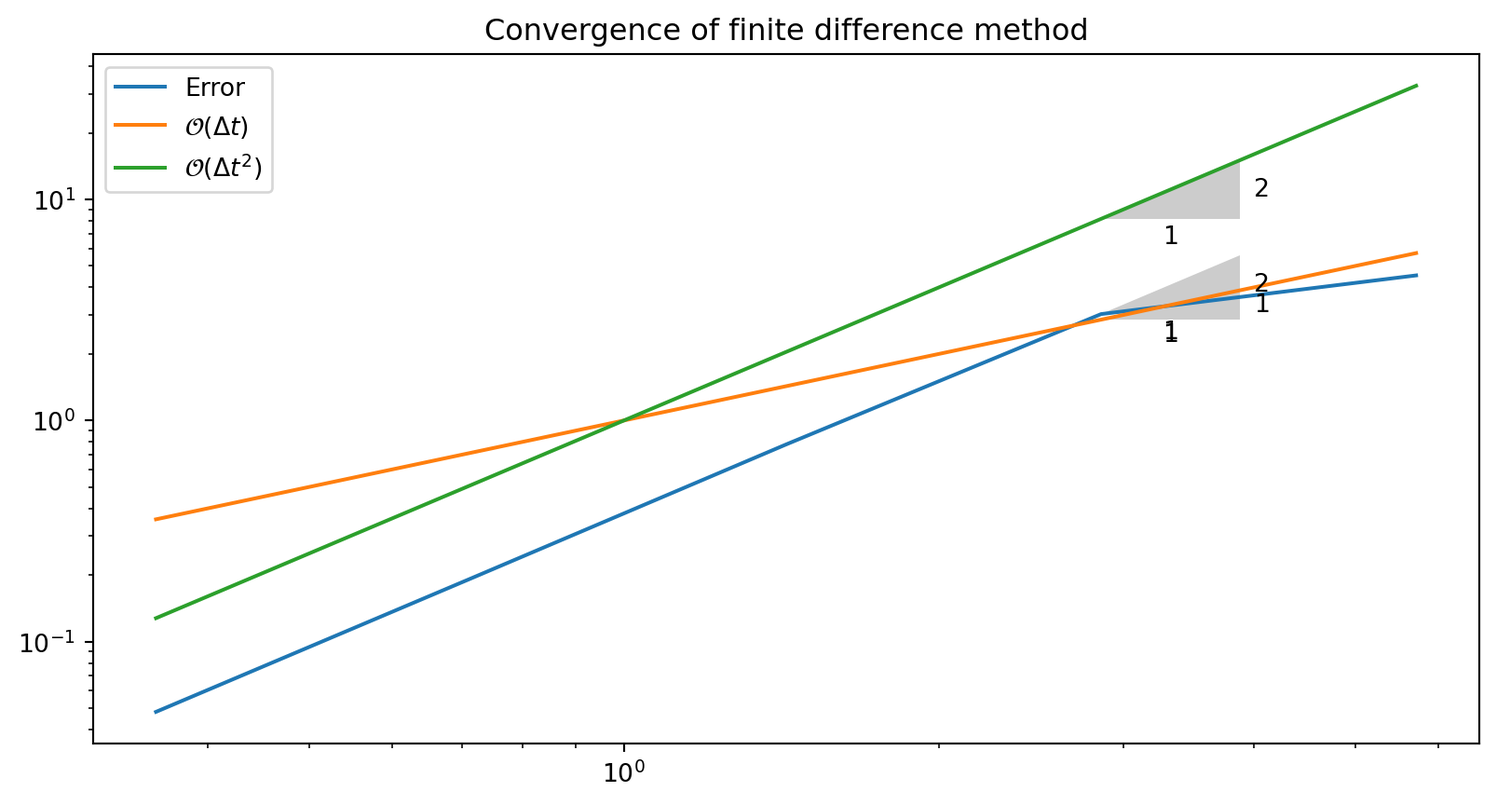
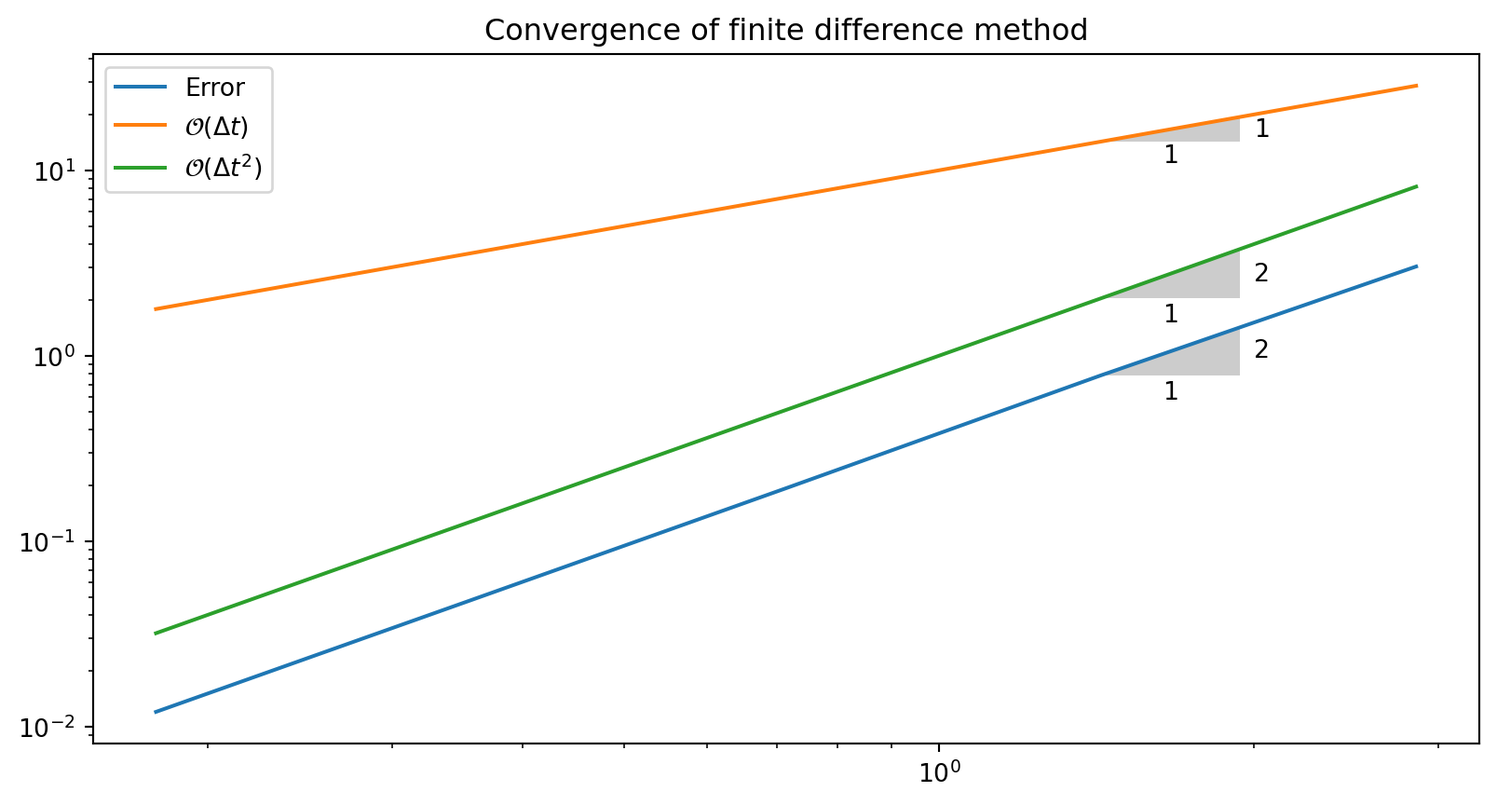
Update documentation

diff --git a/vibration.html b/vibration.html
@@ -460,13 +460,13 @@ u^{n+1} = 2u^n - u^{n-1} - \Delta t^2\omega^2 u^n
 \]</span></p>
 <p>Nick names for this scheme: Störmer’s method or <a href="&quot;http://en.wikipedia.org/wiki/Velocity_Verlet&quot;">Verlet integration</a>.</p>
 <div class="fragment">
-<p>The scheme is a <strong>recurrence relation</strong>. That is, <span class="math inline">\(u^{n+1}\)</span> is an <strong>explicit</strong> function of one or more of the solutions at previous time steps <span class="math inline">\(u^n, u^{n-1}, \ldots\)</span>. We will later see <strong>implicit</strong> schemes where the solution for <span class="math inline">\(u^{n+1}\)</span> depends also on <span class="math inline">\(u^{n+2}, u^{n+3}\)</span> etc.</p>
+<p>The scheme is a <strong>recurrence relation</strong>. That is, <span class="math inline">\(u^{n+1}\)</span> is an <strong>explicit</strong> function of one or more of the solutions at previous time steps <span class="math inline">\(u^n, u^{n-1}, \ldots\)</span>. We will later see <strong>implicit</strong> schemes where the equation for <span class="math inline">\(u^{n+1}\)</span> depends also on <span class="math inline">\(u^{n+2}, u^{n+3}\)</span> etc.</p>
 </div>
 </section>
 <section id="computing-the-first-step---option-1" class="slide level2 smaller">
 <h2>Computing the first step - option 1</h2>
 <ul>
-<li>The two initial conditions require that we fix <span class="math inline">\(u^0\)</span> and <span class="math inline">\(u^1\)</span>. How?</li>
+<li>The two initial conditions require that we fix both <span class="math inline">\(u^0\)</span> and <span class="math inline">\(u^1\)</span>. How to fix <span class="math inline">\(u^1\)</span>?</li>
 </ul>
 <div class="fragment">
 <ul>
@@ -537,7 +537,7 @@ u^1 = u^0 - \frac{1}{2} \Delta t^2 \omega^2 u^0
 </ul>
 <div class="fragment">
 <p>More precisely expressed in Python:</p>
-<div id="7d715557" class="cell" data-execution_count="2">
+<div id="e3fbc46c" class="cell" data-execution_count="2">
 <div class="sourceCode cell-code" id="cb1"><pre class="sourceCode numberSource python number-lines code-with-copy"><code class="sourceCode python"><span id="cb1-1"><a></a>T <span class="op">=</span> <span class="dv">1</span></span>
 <span id="cb1-2"><a></a>Nt <span class="op">=</span> <span class="dv">10</span></span>
 <span id="cb1-3"><a></a>I <span class="op">=</span> <span class="dv">1</span></span>
@@ -577,7 +577,7 @@ u^{\prime}(t_n) \approx \frac{u^{n+1}-u^{n-1}}{2\Delta t}
 </div>
 <div class="fragment">
 <p>With vectorization:</p>
-<div id="5db5d257" class="cell" data-execution_count="3">
+<div id="381f5493" class="cell" data-execution_count="3">
 <div class="sourceCode cell-code" id="cb2"><pre class="sourceCode numberSource python number-lines code-with-copy"><code class="sourceCode python"><span id="cb2-1"><a></a>du <span class="op">=</span> np.zeros(Nt<span class="op">+</span><span class="dv">1</span>)</span>
 <span id="cb2-2"><a></a>du[<span class="dv">1</span>:<span class="op">-</span><span class="dv">1</span>] <span class="op">=</span> (u[<span class="dv">2</span>:] <span class="op">-</span> u[:<span class="op">-</span><span class="dv">2</span>]) <span class="op">/</span> (<span class="dv">2</span><span class="op">*</span>dt)  <span class="co"># second order accurate</span></span>
 <span id="cb2-3"><a></a>du[<span class="dv">0</span>] <span class="op">=</span> <span class="dv">0</span>                             <span class="co"># exact from initial condition</span></span>
@@ -587,35 +587,34 @@ u^{\prime}(t_n) \approx \frac{u^{n+1}-u^{n-1}}{2\Delta t}
 </section>
 <section id="implementation" class="slide level2 smaller">
 <h2>Implementation</h2>
-<div id="f6d6349c" class="cell" data-execution_count="4">
+<div id="5f7084ca" class="cell" data-execution_count="4">
 <div class="sourceCode cell-code" id="cb3"><pre class="sourceCode numberSource python number-lines code-with-copy"><code class="sourceCode python"><span id="cb3-1"><a></a><span class="kw">def</span> solver(I, w, dt, T):</span>
 <span id="cb3-2"><a></a>    <span class="co">"""</span></span>
 <span id="cb3-3"><a></a><span class="co">    Solve u'' + w**2*u = 0 for t in (0,T], u(0)=I and u'(0)=0,</span></span>
 <span id="cb3-4"><a></a><span class="co">    by a central finite difference method with time step dt.</span></span>
 <span id="cb3-5"><a></a><span class="co">    """</span></span>
-<span id="cb3-6"><a></a>    dt <span class="op">=</span> <span class="bu">float</span>(dt)</span>
-<span id="cb3-7"><a></a>    Nt <span class="op">=</span> <span class="bu">int</span>(<span class="bu">round</span>(T<span class="op">/</span>dt))</span>
-<span id="cb3-8"><a></a>    u <span class="op">=</span> np.zeros(Nt<span class="op">+</span><span class="dv">1</span>)</span>
-<span id="cb3-9"><a></a>    t <span class="op">=</span> np.linspace(<span class="dv">0</span>, Nt<span class="op">*</span>dt, Nt<span class="op">+</span><span class="dv">1</span>)</span>
-<span id="cb3-10"><a></a></span>
-<span id="cb3-11"><a></a>    u[<span class="dv">0</span>] <span class="op">=</span> I</span>
-<span id="cb3-12"><a></a>    u[<span class="dv">1</span>] <span class="op">=</span> u[<span class="dv">0</span>] <span class="op">-</span> <span class="fl">0.5</span><span class="op">*</span>dt<span class="op">**</span><span class="dv">2</span><span class="op">*</span>w<span class="op">**</span><span class="dv">2</span><span class="op">*</span>u[<span class="dv">0</span>]</span>
-<span id="cb3-13"><a></a>    <span class="cf">for</span> n <span class="kw">in</span> <span class="bu">range</span>(<span class="dv">1</span>, Nt):</span>
-<span id="cb3-14"><a></a>        u[n<span class="op">+</span><span class="dv">1</span>] <span class="op">=</span> <span class="dv">2</span><span class="op">*</span>u[n] <span class="op">-</span> u[n<span class="op">-</span><span class="dv">1</span>] <span class="op">-</span> dt<span class="op">**</span><span class="dv">2</span><span class="op">*</span>w<span class="op">**</span><span class="dv">2</span><span class="op">*</span>u[n]</span>
-<span id="cb3-15"><a></a>    <span class="cf">return</span> u, t</span>
-<span id="cb3-16"><a></a> </span>
-<span id="cb3-17"><a></a><span class="kw">def</span> u_exact(t, I, w):</span>
-<span id="cb3-18"><a></a>    <span class="cf">return</span> I<span class="op">*</span>np.cos(w<span class="op">*</span>t)</span></code><button title="Copy to Clipboard" class="code-copy-button"><i class="bi"></i></button></pre></div>
+<span id="cb3-6"><a></a>    Nt <span class="op">=</span> <span class="bu">int</span>(<span class="bu">round</span>(T<span class="op">/</span>dt))</span>
+<span id="cb3-7"><a></a>    u <span class="op">=</span> np.zeros(Nt<span class="op">+</span><span class="dv">1</span>)</span>
+<span id="cb3-8"><a></a>    t <span class="op">=</span> np.linspace(<span class="dv">0</span>, Nt<span class="op">*</span>dt, Nt<span class="op">+</span><span class="dv">1</span>)</span>
+<span id="cb3-9"><a></a></span>
+<span id="cb3-10"><a></a>    u[<span class="dv">0</span>] <span class="op">=</span> I</span>
+<span id="cb3-11"><a></a>    u[<span class="dv">1</span>] <span class="op">=</span> u[<span class="dv">0</span>] <span class="op">-</span> <span class="fl">0.5</span><span class="op">*</span>dt<span class="op">**</span><span class="dv">2</span><span class="op">*</span>w<span class="op">**</span><span class="dv">2</span><span class="op">*</span>u[<span class="dv">0</span>]</span>
+<span id="cb3-12"><a></a>    <span class="cf">for</span> n <span class="kw">in</span> <span class="bu">range</span>(<span class="dv">1</span>, Nt):</span>
+<span id="cb3-13"><a></a>        u[n<span class="op">+</span><span class="dv">1</span>] <span class="op">=</span> <span class="dv">2</span><span class="op">*</span>u[n] <span class="op">-</span> u[n<span class="op">-</span><span class="dv">1</span>] <span class="op">-</span> dt<span class="op">**</span><span class="dv">2</span><span class="op">*</span>w<span class="op">**</span><span class="dv">2</span><span class="op">*</span>u[n]</span>
+<span id="cb3-14"><a></a>    <span class="cf">return</span> u, t</span>
+<span id="cb3-15"><a></a> </span>
+<span id="cb3-16"><a></a><span class="kw">def</span> u_exact(t, I, w):</span>
+<span id="cb3-17"><a></a>    <span class="cf">return</span> I<span class="op">*</span>np.cos(w<span class="op">*</span>t)</span></code><button title="Copy to Clipboard" class="code-copy-button"><i class="bi"></i></button></pre></div>
 </div>
 </section>
 <section id="visualization" class="slide level2 smaller">
 <h2>Visualization</h2>
-<div id="9a718988" class="cell" data-execution_count="5">
+<div id="a1373f6f" class="cell" data-execution_count="5">
 <div class="sourceCode cell-code" id="cb4"><pre class="sourceCode numberSource python number-lines code-with-copy"><code class="sourceCode python"><span id="cb4-1"><a></a><span class="kw">def</span> visualize(u, t, I, w):</span>
-<span id="cb4-2"><a></a>    plt.plot(t, u, <span class="st">'r--o'</span>)</span>
+<span id="cb4-2"><a></a>    plt.plot(t, u, <span class="st">'b-o'</span>)</span>
 <span id="cb4-3"><a></a>    t_fine <span class="op">=</span> np.linspace(<span class="dv">0</span>, t[<span class="op">-</span><span class="dv">1</span>], <span class="dv">1001</span>)  <span class="co"># very fine mesh for u_e</span></span>
 <span id="cb4-4"><a></a>    u_e <span class="op">=</span> u_exact(t_fine, I, w)</span>
-<span id="cb4-5"><a></a>    plt.plot(t_fine, u_e, <span class="st">'b-'</span>)</span>
+<span id="cb4-5"><a></a>    plt.plot(t_fine, u_e, <span class="st">'r--'</span>)</span>
 <span id="cb4-6"><a></a>    plt.legend([<span class="st">'numerical'</span>, <span class="st">'exact'</span>], loc<span class="op">=</span><span class="st">'upper left'</span>)</span>
 <span id="cb4-7"><a></a>    plt.xlabel(<span class="st">'t'</span>)</span>
 <span id="cb4-8"><a></a>    plt.ylabel(<span class="st">'u(t)'</span>)</span>
@@ -627,13 +626,13 @@ u^{\prime}(t_n) \approx \frac{u^{n+1}-u^{n-1}}{2\Delta t}
 </section>
 <section id="main-program" class="slide level2 smaller">
 <h2>Main program</h2>
-<div id="2ed660ff" class="cell" data-execution_count="6">
+<div id="db01d4ae" class="cell" data-execution_count="6">
 <div class="sourceCode cell-code" id="cb5"><pre class="sourceCode numberSource python number-lines code-with-copy"><code class="sourceCode python"><span id="cb5-1"><a></a>I <span class="op">=</span> <span class="dv">1</span></span>
 <span id="cb5-2"><a></a>w <span class="op">=</span> <span class="dv">2</span><span class="op">*</span>np.pi</span>
 <span id="cb5-3"><a></a>num_periods <span class="op">=</span> <span class="dv">6</span></span>
 <span id="cb5-4"><a></a>P <span class="op">=</span> <span class="dv">2</span><span class="op">*</span>np.pi<span class="op">/</span>w    <span class="co">#  one period</span></span>
 <span id="cb5-5"><a></a>T <span class="op">=</span> P<span class="op">*</span>num_periods</span>
-<span id="cb5-6"><a></a>dt <span class="op">=</span> <span class="fl">0.5</span><span class="op">/</span>w</span>
+<span id="cb5-6"><a></a>dt <span class="op">=</span> <span class="dv">1</span><span class="op">/</span>w</span>
 <span id="cb5-7"><a></a>u, t <span class="op">=</span> solver(I, w, dt, T)</span>
 <span id="cb5-8"><a></a>visualize(u, t, I, w)</span></code><button title="Copy to Clipboard" class="code-copy-button"><i class="bi"></i></button></pre></div>
 <div class="cell-output cell-output-display">
@@ -647,7 +646,7 @@ u^{\prime}(t_n) \approx \frac{u^{n+1}-u^{n-1}}{2\Delta t}
 </section>
 <section id="various-timestep" class="slide level2 smaller">
 <h2>Various timestep</h2>
-<div id="5d42bbbb" class="cell" data-execution_count="7">
+<div id="321ec35c" class="cell" data-execution_count="7">
 <div class="cell-output cell-output-display">
 <div>
 <figure>
@@ -745,12 +744,12 @@ u(t_n) = I \cos (\tilde{\omega} t_n)
 <p>How good is the approximation <span class="math inline">\(\tilde{\omega} = \pm \frac{2}{\Delta t} \sin^{-1} \left( \frac{\omega  \Delta t }{2} \right)\)</span> ?</p>
 <div class="fragment">
 <p>We can easily use a Taylor series expansion for small <span class="math inline">\(h=\Delta t\)</span></p>
-<div id="baefeb1b" class="cell" data-execution_count="8">
+<div id="101c4539" class="cell" data-execution_count="8">
 <div class="sourceCode cell-code" id="cb6"><pre class="sourceCode numberSource python number-lines code-with-copy"><code class="sourceCode python"><span id="cb6-1"><a></a><span class="im">import</span> sympy <span class="im">as</span> sp </span>
 <span id="cb6-2"><a></a>h, w <span class="op">=</span> sp.symbols(<span class="st">'h,w'</span>)</span>
 <span id="cb6-3"><a></a>w_tilde <span class="op">=</span> sp.asin(w<span class="op">*</span>h<span class="op">/</span><span class="dv">2</span>).series(h, <span class="dv">0</span>, <span class="dv">4</span>)<span class="op">*</span><span class="dv">2</span><span class="op">/</span>h</span>
 <span id="cb6-4"><a></a>sp.simplify(w_tilde)</span></code><button title="Copy to Clipboard" class="code-copy-button"><i class="bi"></i></button></pre></div>
-<div class="cell-output cell-output-display cell-output-markdown" data-execution_count="158">
+<div class="cell-output cell-output-display cell-output-markdown" data-execution_count="333">
 <p><span class="math inline">\(\displaystyle w + \frac{h^{2} w^{3}}{24} + O\left(h^{3}\right)\)</span></p>
 </div>
 </div>
@@ -832,9 +831,9 @@ e^n = -2I\sin\left(n \Delta t\frac{1}{2}\left( \omega - \tilde\omega\right)\righ
 \]</span></p>
 <div class="fragment">
 <p>The limit can be computed using L’Hopital’s rule or simply by asking <code>sympy</code> or <a href="http://www.wolframalpha.com/input/?i=%282%2Fx%29*asin%28w*x%2F2%29+as+x-%3E0">WolframAlpha</a>. Sympy is easier:</p>
-<div id="3ce4add3" class="cell" data-execution_count="9">
+<div id="01098d50" class="cell" data-execution_count="9">
 <div class="sourceCode cell-code" id="cb7"><pre class="sourceCode numberSource python number-lines code-with-copy"><code class="sourceCode python"><span id="cb7-1"><a></a>sp.limit((<span class="dv">2</span><span class="op">/</span>h)<span class="op">*</span>sp.asin(w<span class="op">*</span>h<span class="op">/</span><span class="dv">2</span>), h, <span class="dv">0</span>, <span class="bu">dir</span><span class="op">=</span><span class="st">'+'</span>)</span></code><button title="Copy to Clipboard" class="code-copy-button"><i class="bi"></i></button></pre></div>
-<div class="cell-output cell-output-display cell-output-markdown" data-execution_count="159">
+<div class="cell-output cell-output-display cell-output-markdown" data-execution_count="334">
 <p><span class="math inline">\(\displaystyle w\)</span></p>
 </div>
 </div>
@@ -864,10 +863,10 @@ e^n = -2I\sin\left(n \Delta t\frac{1}{2}\left( \omega - \tilde\omega\right)\righ
 <div class="column">
 <p>No! For <span class="math inline">\(\Im(y) &lt; 0\)</span> we have that <span class="math inline">\(|e^{iy}| &gt; 1\)</span>.</p>
 </div><div class="column">
-<div id="c900989a" class="cell" data-execution_count="10">
+<div id="7ca53fc2" class="cell" data-execution_count="10">
 <div class="sourceCode cell-code" id="cb8"><pre class="sourceCode numberSource python number-lines code-with-copy"><code class="sourceCode python"><span id="cb8-1"><a></a>y <span class="op">=</span> <span class="op">-</span><span class="ot">0.001j</span></span>
 <span id="cb8-2"><a></a><span class="bu">abs</span>(sp.exp(<span class="ot">1j</span><span class="op">*</span>y)) </span></code><button title="Copy to Clipboard" class="code-copy-button"><i class="bi"></i></button></pre></div>
-<div class="cell-output cell-output-display cell-output-markdown" data-execution_count="160">
+<div class="cell-output cell-output-display cell-output-markdown" data-execution_count="335">
 <p><span class="math inline">\(\displaystyle 1.00100050016671\)</span></p>
 </div>
 </div>
@@ -879,9 +878,9 @@ e^n = -2I\sin\left(n \Delta t\frac{1}{2}\left( \omega - \tilde\omega\right)\righ
 </div>
 <div class="fragment">
 <p>Yes! We can easily check that if <span class="math inline">\(|x|&gt;1\)</span> then <span class="math inline">\(\sin^{-1}(x)\)</span> has a negative imaginary part:</p>
-<div id="15aa1ddf" class="cell" data-execution_count="11">
+<div id="4c7cf4c3" class="cell" data-execution_count="11">
 <div class="sourceCode cell-code" id="cb9"><pre class="sourceCode numberSource python number-lines code-with-copy"><code class="sourceCode python"><span id="cb9-1"><a></a>sp.asin(<span class="fl">1.01</span>)</span></code><button title="Copy to Clipboard" class="code-copy-button"><i class="bi"></i></button></pre></div>
-<div class="cell-output cell-output-display cell-output-markdown" data-execution_count="161">
+<div class="cell-output cell-output-display cell-output-markdown" data-execution_count="336">
 <p><span class="math inline">\(\displaystyle 1.5707963267949 - 0.141303769485649 i\)</span></p>
 </div>
 </div>
@@ -907,7 +906,7 @@ e^n = -2I\sin\left(n \Delta t\frac{1}{2}\left( \omega - \tilde\omega\right)\righ
 </section>
 <section id="remember-the-initial-plots" class="slide level2 smaller">
 <h2>Remember the initial plots</h2>
-<div id="41ca5ba1" class="cell" data-execution_count="12">
+<div id="4fa8321a" class="cell" data-execution_count="12">
 <div class="cell-output cell-output-display">
 <div>
 <figure>
@@ -920,7 +919,7 @@ e^n = -2I\sin\left(n \Delta t\frac{1}{2}\left( \omega - \tilde\omega\right)\righ
 </section>
 <section id="about-the-stability-limit" class="slide level2 smaller">
 <h2>About the stability limit</h2>
-<div id="9403eeb3" class="cell" data-execution_count="13">
+<div id="1163642f" class="cell" data-execution_count="13">
 <div class="cell-output cell-output-display">
 <div>
 <figure>
@@ -966,11 +965,11 @@ A = 1 - \frac{p^2}{2} \pm \frac{p}{2}\sqrt{p^2-4}
 A &lt; -1
 \]</span></p>
 <p>Check:</p>
-<div id="39a34554" class="cell" data-execution_count="14">
+<div id="59e315d7" class="cell" data-execution_count="14">
 <div class="sourceCode cell-code" id="cb10"><pre class="sourceCode numberSource python number-lines code-with-copy"><code class="sourceCode python"><span id="cb10-1"><a></a>p <span class="op">=</span> sp.Symbol(<span class="st">'p'</span>) </span>
 <span id="cb10-2"><a></a>f <span class="op">=</span> <span class="dv">1</span> <span class="op">-</span> p<span class="op">**</span><span class="dv">2</span><span class="op">/</span><span class="dv">2</span> <span class="op">-</span> p<span class="op">/</span><span class="dv">2</span><span class="op">*</span>sp.sqrt(p<span class="op">**</span><span class="dv">2</span><span class="op">-</span><span class="dv">4</span>)</span>
 <span id="cb10-3"><a></a>f.subs(p, <span class="fl">2.01</span>).n() </span></code><button title="Copy to Clipboard" class="code-copy-button"><i class="bi"></i></button></pre></div>
-<div class="cell-output cell-output-display cell-output-markdown" data-execution_count="164">
+<div class="cell-output cell-output-display cell-output-markdown" data-execution_count="339">
 <p><span class="math inline">\(\displaystyle -1.22130109316473\)</span></p>
 </div>
 </div>
@@ -1036,9 +1035,9 @@ A &lt; -1
 <section id="convergence-rates" class="slide level2 smaller">
 <h2>Convergence rates</h2>
 <p>Lets compute the convergence rate for our solver. However, let it also be possible to choose the numerical frequency <span class="math inline">\(\omega(1-\omega^2\Delta t^2/24)\)</span></p>
-<div id="17014b44" class="cell" data-execution_count="15">
+<div id="cc5432df" class="cell" data-execution_count="15">
 <div class="sourceCode cell-code" id="cb11"><pre class="sourceCode numberSource python number-lines code-with-copy"><code class="sourceCode python"><span id="cb11-1"><a></a><span class="kw">def</span> solver_adjust(I, w, dt, T, adjust_w<span class="op">=</span><span class="va">False</span>):</span>
-<span id="cb11-2"><a></a>    Nt <span class="op">=</span> <span class="bu">int</span>(T<span class="op">/</span>dt)</span>
+<span id="cb11-2"><a></a>    Nt <span class="op">=</span> <span class="bu">int</span>(<span class="bu">round</span>(T<span class="op">/</span>dt))</span>
 <span id="cb11-3"><a></a>    u <span class="op">=</span> np.zeros(Nt<span class="op">+</span><span class="dv">1</span>)</span>
 <span id="cb11-4"><a></a>    t <span class="op">=</span> np.linspace(<span class="dv">0</span>, Nt<span class="op">*</span>dt, Nt<span class="op">+</span><span class="dv">1</span>)</span>
 <span id="cb11-5"><a></a>    w_adj <span class="op">=</span> w<span class="op">*</span>(<span class="dv">1</span> <span class="op">-</span> w<span class="op">**</span><span class="dv">2</span><span class="op">*</span>dt<span class="op">**</span><span class="dv">2</span><span class="op">/</span><span class="fl">24.</span>) <span class="cf">if</span> adjust_w <span class="cf">else</span> w</span>
@@ -1063,10 +1062,10 @@ A &lt; -1
 <p><span class="math display">\[
 r = \frac{\log {\frac{E_{i-1}}{E_i}}}{\log {\frac{\Delta t_{i-1}}{\Delta t_i}}}
 \]</span></p>
-<div id="9b0d1cf2" class="cell" data-execution_count="16">
+<div id="b56631ab" class="cell" data-execution_count="16">
 <div class="sourceCode cell-code" id="cb12"><pre class="sourceCode numberSource python number-lines code-with-copy"><code class="sourceCode python"><span id="cb12-1"><a></a><span class="kw">def</span> convergence_rates(m, num_periods<span class="op">=</span><span class="dv">8</span>, w<span class="op">=</span><span class="fl">0.35</span>, I<span class="op">=</span><span class="fl">0.3</span>, adjust_w<span class="op">=</span><span class="va">False</span>):</span>
 <span id="cb12-2"><a></a>    P <span class="op">=</span> <span class="dv">2</span><span class="op">*</span>np.pi<span class="op">/</span>w</span>
-<span id="cb12-3"><a></a>    dt <span class="op">=</span> <span class="dv">2</span> <span class="op">/</span> w    <span class="co"># Initial dt is maximum time step for stability</span></span>
+<span id="cb12-3"><a></a>    dt <span class="op">=</span> <span class="dv">1</span> <span class="op">/</span> w    <span class="co"># Half stability limit</span></span>
 <span id="cb12-4"><a></a>    T <span class="op">=</span> P<span class="op">*</span>num_periods</span>
 <span id="cb12-5"><a></a>    dt_values, E_values <span class="op">=</span> [], []</span>
 <span id="cb12-6"><a></a>    <span class="cf">for</span> i <span class="kw">in</span> <span class="bu">range</span>(m):</span>
@@ -1084,33 +1083,30 @@ r = \frac{\log {\frac{E_{i-1}}{E_i}}}{\log {\frac{\Delta t_{i-1}}{\Delta t_i}}}
 <section id="try-it" class="slide level2 smaller">
 <h2>Try it!</h2>
 <p>Print the computed convergence rates</p>
-<div id="73ef13fb" class="cell" data-execution_count="17">
+<div id="0dcc43e7" class="cell" data-execution_count="17">
 <div class="sourceCode cell-code" id="cb13"><pre class="sourceCode numberSource python number-lines code-with-copy"><code class="sourceCode python"><span id="cb13-1"><a></a>convergence_rates(<span class="dv">5</span>, w<span class="op">=</span><span class="fl">0.5</span>, I<span class="op">=</span><span class="dv">1</span>)[<span class="dv">0</span>]</span></code><button title="Copy to Clipboard" class="code-copy-button"><i class="bi"></i></button></pre></div>
-<div class="cell-output cell-output-display" data-execution_count="167">
-<pre><code>[0.5812225474381454,
- 1.9588768683386732,
- 2.0128151185701406,
- 2.0050238810553545]</code></pre>
+<div class="cell-output cell-output-display" data-execution_count="342">
+<pre><code>[1.9487030166752326, 2.022988970233581, 2.0050238810553545, 2.0013403129395835]</code></pre>
 </div>
 </div>
 <p>Adjusted solver:</p>
-<div id="13bd230b" class="cell" data-execution_count="18">
+<div id="e61f7422" class="cell" data-execution_count="18">
 <div class="sourceCode cell-code" id="cb15"><pre class="sourceCode numberSource python number-lines code-with-copy"><code class="sourceCode python"><span id="cb15-1"><a></a>convergence_rates(<span class="dv">5</span>, w<span class="op">=</span><span class="fl">0.5</span>, I<span class="op">=</span><span class="dv">1</span>, adjust_w<span class="op">=</span><span class="va">True</span>)[<span class="dv">0</span>]</span></code><button title="Copy to Clipboard" class="code-copy-button"><i class="bi"></i></button></pre></div>
-<div class="cell-output cell-output-display" data-execution_count="168">
-<pre><code>[4.639514498646321, 4.135402053048683, 4.032727110521893, 4.008071155725109]</code></pre>
+<div class="cell-output cell-output-display" data-execution_count="343">
+<pre><code>[4.133074797577663, 4.035054365992913, 4.008071155725109, 4.0020125447469646]</code></pre>
 </div>
 </div>
 </section>
 <section id="plot-convergence-regular-solver" class="slide level2 smaller">
 <h2>plot convergence regular solver</h2>
-<div id="ff5ba188" class="cell" data-execution_count="19">
+<div id="c32027a0" class="cell" data-execution_count="19">
 <div class="sourceCode cell-code" id="cb17"><pre class="sourceCode numberSource python number-lines code-with-copy"><code class="sourceCode python"><span id="cb17-1"><a></a><span class="im">from</span> plotslopes <span class="im">import</span> slope_marker</span>
 <span id="cb17-2"><a></a>r, E, dt <span class="op">=</span> convergence_rates(<span class="dv">5</span>)</span>
-<span id="cb17-3"><a></a>plt.loglog(dt, E, dt, dt, dt, np.array(dt)<span class="op">**</span><span class="dv">2</span>)</span>
+<span id="cb17-3"><a></a>plt.loglog(dt, E, dt, <span class="dv">10</span><span class="op">*</span>np.array(dt), dt, np.array(dt)<span class="op">**</span><span class="dv">2</span>)</span>
 <span id="cb17-4"><a></a>plt.title(<span class="st">'Convergence of finite difference method'</span>)</span>
 <span id="cb17-5"><a></a>plt.legend([<span class="st">'Error'</span>, <span class="st">'$</span><span class="ch">\\</span><span class="st">mathcal</span><span class="sc">{O}</span><span class="st">(</span><span class="ch">\\</span><span class="st">Delta t)$'</span>, <span class="st">'$</span><span class="ch">\\</span><span class="st">mathcal</span><span class="sc">{O}</span><span class="st">(</span><span class="ch">\\</span><span class="st">Delta t^2)$'</span>])</span>
 <span id="cb17-6"><a></a>slope_marker((dt[<span class="dv">1</span>], E[<span class="dv">1</span>]), (<span class="dv">2</span>,<span class="dv">1</span>))</span>
-<span id="cb17-7"><a></a>slope_marker((dt[<span class="dv">1</span>], dt[<span class="dv">1</span>]), (<span class="dv">1</span>,<span class="dv">1</span>))</span>
+<span id="cb17-7"><a></a>slope_marker((dt[<span class="dv">1</span>], <span class="dv">10</span><span class="op">*</span>dt[<span class="dv">1</span>]), (<span class="dv">1</span>,<span class="dv">1</span>))</span>
 <span id="cb17-8"><a></a>slope_marker((dt[<span class="dv">1</span>], dt[<span class="dv">1</span>]<span class="op">**</span><span class="dv">2</span>), (<span class="dv">2</span>,<span class="dv">1</span>))</span></code><button title="Copy to Clipboard" class="code-copy-button"><i class="bi"></i></button></pre></div>
 <div class="cell-output cell-output-display">
 <div>
@@ -1123,7 +1119,7 @@ r = \frac{\log {\frac{E_{i-1}}{E_i}}}{\log {\frac{\Delta t_{i-1}}{\Delta t_i}}}
 </section>
 <section id="plot-convergence-adjusted-solver" class="slide level2 smaller">
 <h2>plot convergence adjusted solver</h2>
-<div id="f755223a" class="cell" data-execution_count="20">
+<div id="af161714" class="cell" data-execution_count="20">
 <div class="sourceCode cell-code" id="cb18"><pre class="sourceCode numberSource python number-lines code-with-copy"><code class="sourceCode python"><span id="cb18-1"><a></a><span class="im">from</span> plotslopes <span class="im">import</span> slope_marker</span>
 <span id="cb18-2"><a></a>r, E, dt <span class="op">=</span> convergence_rates(<span class="dv">5</span>, adjust_w<span class="op">=</span><span class="va">True</span>)</span>
 <span id="cb18-3"><a></a>plt.loglog(dt, E, dt, np.array(dt)<span class="op">**</span><span class="dv">4</span>)</span>
@@ -1143,7 +1139,7 @@ r = \frac{\log {\frac{E_{i-1}}{E_i}}}{\log {\frac{\Delta t_{i-1}}{\Delta t_i}}}
 <section id="add-tests" class="slide level2 smaller">
 <h2>Add tests</h2>
 <p>The exact solution will not equal the numerical, but the order of the error is something we can test for.</p>
-<div id="b33895eb" class="cell" data-execution_count="21">
+<div id="0e0d02d3" class="cell" data-execution_count="21">
 <div class="sourceCode cell-code" id="cb19"><pre class="sourceCode numberSource python number-lines code-with-copy"><code class="sourceCode python"><span id="cb19-1"><a></a><span class="kw">def</span> test_order(m, w<span class="op">=</span><span class="dv">1</span>, I<span class="op">=</span><span class="dv">1</span>, adjust_w<span class="op">=</span><span class="va">False</span>):</span>
 <span id="cb19-2"><a></a>    r, E, dt <span class="op">=</span> convergence_rates(m, w<span class="op">=</span>w, I<span class="op">=</span>I, adjust_w<span class="op">=</span>adjust_w)</span>
 <span id="cb19-3"><a></a>    true_order <span class="op">=</span> <span class="dv">4</span> <span class="cf">if</span> adjust_w <span class="cf">else</span> <span class="dv">2</span></span>
@@ -1156,22 +1152,22 @@ r = \frac{\log {\frac{E_{i-1}}{E_i}}}{\log {\frac{\Delta t_{i-1}}{\Delta t_i}}}
 </div>
 <div class="fragment">
 <p>Run test for <span class="math inline">\(m=4\)</span> levels, <span class="math inline">\(w=0.5, I=1\)</span> and <code>adjust_w=False</code></p>
-<div id="ce6b4eb8" class="cell" data-execution_count="22">
+<div id="a42b3a23" class="cell" data-execution_count="22">
 <div class="sourceCode cell-code" id="cb20"><pre class="sourceCode numberSource python number-lines code-with-copy"><code class="sourceCode python"><span id="cb20-1"><a></a>test_order(<span class="dv">4</span>, w<span class="op">=</span><span class="fl">0.5</span>, I<span class="op">=</span><span class="dv">1</span>, adjust_w<span class="op">=</span><span class="va">False</span>)</span></code><button title="Copy to Clipboard" class="code-copy-button"><i class="bi"></i></button></pre></div>
 <div class="cell-output cell-output-stdout">
-<pre><code>Test failed!! orders = [0.5812225474381454, 1.9588768683386732, 2.0128151185701406]</code></pre>
+<pre><code>Test passed!!</code></pre>
 </div>
 </div>
 </div>
 <div class="fragment">
 <p>Test fails. Try one more level</p>
-<div id="6d2eb86b" class="cell" data-execution_count="23">
+<div id="fbde278d" class="cell" data-execution_count="23">
 <div class="sourceCode cell-code" id="cb22"><pre class="sourceCode numberSource python number-lines code-with-copy"><code class="sourceCode python"><span id="cb22-1"><a></a>test_order(<span class="dv">5</span>, w<span class="op">=</span><span class="fl">0.5</span>, I<span class="op">=</span><span class="dv">1</span>, adjust_w<span class="op">=</span><span class="va">False</span>)</span></code><button title="Copy to Clipboard" class="code-copy-button"><i class="bi"></i></button></pre></div>
 <div class="cell-output cell-output-stdout">
 <pre><code>Test passed!!</code></pre>
 </div>
 </div>
-<div id="063a841b" class="cell" data-execution_count="24">
+<div id="c5cb2179" class="cell" data-execution_count="24">
 <div class="sourceCode cell-code" id="cb24"><pre class="sourceCode numberSource python number-lines code-with-copy"><code class="sourceCode python"><span id="cb24-1"><a></a>test_order(<span class="dv">5</span>, w<span class="op">=</span><span class="fl">0.5</span>, I<span class="op">=</span><span class="dv">1</span>, adjust_w<span class="op">=</span><span class="va">True</span>)</span></code><button title="Copy to Clipboard" class="code-copy-button"><i class="bi"></i></button></pre></div>
 <div class="cell-output cell-output-stdout">
 <pre><code>Test passed!!</code></pre>
@@ -1182,7 +1178,7 @@ r = \frac{\log {\frac{E_{i-1}}{E_i}}}{\log {\frac{\Delta t_{i-1}}{\Delta t_i}}}
 <section id="final-test" class="slide level2 smaller">
 <h2>Final test</h2>
 <p>Use simply an assert clause and do not catch the error.</p>
-<div id="fc55e433" class="cell" data-execution_count="25">
+<div id="4d801baf" class="cell" data-execution_count="25">
 <div class="sourceCode cell-code" id="cb26"><pre class="sourceCode numberSource python number-lines code-with-copy"><code class="sourceCode python"><span id="cb26-1"><a></a><span class="kw">def</span> test_order(m, w<span class="op">=</span><span class="dv">1</span>, I<span class="op">=</span><span class="dv">1</span>, adjust_w<span class="op">=</span><span class="va">False</span>):</span>
 <span id="cb26-2"><a></a>    r, E, dt <span class="op">=</span> convergence_rates(m, w<span class="op">=</span>w, I<span class="op">=</span>I, adjust_w<span class="op">=</span>adjust_w)</span>
 <span id="cb26-3"><a></a>    true_order <span class="op">=</span> <span class="dv">4</span> <span class="cf">if</span> adjust_w <span class="cf">else</span> <span class="dv">2</span></span>
